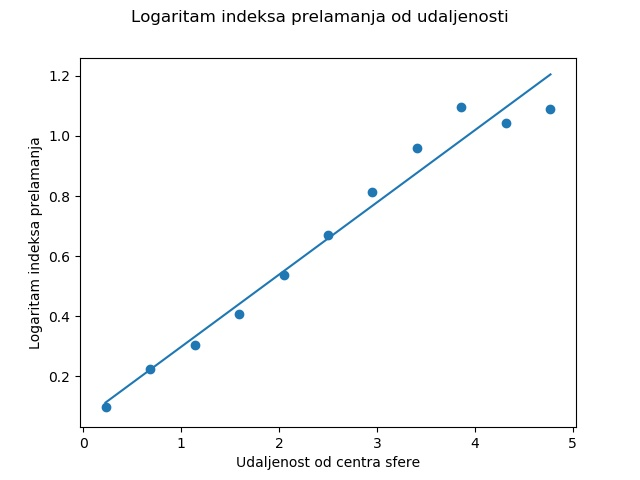
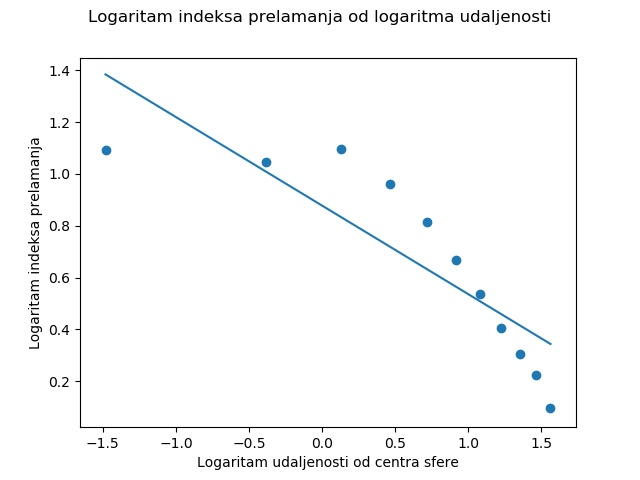
novi rezultati opet

diff --git a/'rezultati'/fminsearch_n/plot.py b/'rezultati'/fminsearch_n/plot.py
@@ -2,7 +2,7 @@ import numpy as np
 import matplotlib.pyplot as plt
 import re
 
-fit = {3:3, 4:4, 5:5, 7:7, 8:8, 9:8, 10:8, 11:9}
+fit = {3:-1, 4:-1, 5:-1, 7:5, 8:5, 9:6, 10:7, 11:7}
 
 for i in [3, 4, 5, 7, 8, 9, 10, 11]:
     f = open('podaci/n'+str(i)+'.log')
@@ -14,17 +14,24 @@ for i in [3, 4, 5, 7, 8, 9, 10, 11]:
     n_arr = re.split(', |,\n', line)
     n_arr = list(filter(None, n_arr))
     n_arr = list(map(float, n_arr))
-    x = 5*np.arange(1/(2*i), 1, 1/i)	 
+    x = np.log(5*np.arange(1 - 1/(2*i), 0, -1/i))	 
     y = np.log(n_arr)
 
-    if fit[i] != i:
+    if fit[i] == -1:
+        plt.scatter(x, y)
+        plt.suptitle('Logaritam indeksa prelamanja od logaritma udaljenosti')
+        plt.xlabel('Logaritam udaljenosti od centra sfere')
+        plt.ylabel('Logaritam indeksa prelamanja')
+        plt.savefig('slike/n'+str(i)+'.jpg')
+        plt.close()
+    elif fit[i] != i:
         t = np.linspace(x[0], x[fit[i]-1])
         A = np.vstack([x[:fit[i]], np.ones(fit[i])]).T
         [[m_t, c_t], res_t] = np.linalg.lstsq(A, y[:fit[i]], rcond=None)[:2]
         plt.plot(t, m_t*t+c_t)
         plt.scatter(x, y)
-        plt.suptitle('Logaritam indeksa prelamanja od udaljenosti')
-        plt.xlabel('Udaljenost od centra sfere')
+        plt.suptitle('Logaritam indeksa prelamanja od logaritma udaljenosti')
+        plt.xlabel('Logaritam udaljenosti od centra sfere')
         plt.ylabel('Logaritam indeksa prelamanja')
         plt.savefig('slike/n'+str(i)+'_t.jpg')
         plt.close()
@@ -32,18 +39,19 @@ for i in [3, 4, 5, 7, 8, 9, 10, 11]:
         f.write('c_t = '+str(c_t)+'\n')
         f.write('res_t = '+str(res_t[0])+'\n')
 
-    t = np.linspace(x[0], x[-1])
-    A = np.vstack([x, np.ones(len(x))]).T
-    [[m, c], res] = np.linalg.lstsq(A, y, rcond=None)[:2]
-    plt.plot(t, m*t+c)
-    plt.scatter(x, y)
-    plt.suptitle('Logaritam indeksa prelamanja od udaljenosti')
-    plt.xlabel('Udaljenost od centra sfere')
-    plt.ylabel('Logaritam indeksa prelamanja')
-    plt.savefig('slike/n'+str(i)+'.jpg')
-    plt.close() 
-    f.write('m = '+str(m)+'\n')
-    f.write('c = '+str(c)+'\n')
-    f.write('res = '+str(res[0])+'\n')
+    if fit[i] != -1:
+        t = np.linspace(x[0], x[-1])
+        A = np.vstack([x, np.ones(len(x))]).T
+        [[m, c], res] = np.linalg.lstsq(A, y, rcond=None)[:2]
+        plt.plot(t, m*t+c)
+        plt.scatter(x, y)
+        plt.suptitle('Logaritam indeksa prelamanja od logaritma udaljenosti')
+        plt.xlabel('Logaritam udaljenosti od centra sfere')
+        plt.ylabel('Logaritam indeksa prelamanja')
+        plt.savefig('slike/n'+str(i)+'.jpg')
+        plt.close() 
+        f.write('m = '+str(m)+'\n')
+        f.write('c = '+str(c)+'\n')
+        f.write('res = '+str(res[0])+'\n')
 
     f.close()

diff --git a/'rezultati'/fminsearch_n/eksponent.py b/'rezultati'/fminsearch_n/eksponent.py
@@ -1,0 +1,31 @@
+import numpy as np
+import matplotlib.pyplot as plt
+
+k_arr = [7, 8, 9, 10, 11]
+exp = {}
+
+for i in k_arr:
+	path = 'fitovi/n'+str(i)+'.log'
+	f = open(path)
+	exp[i] = float(f.readline().split()[-1])
+	f.close()
+	#print(exp[i])
+
+y = [exp[i] for i in k_arr]
+plt.scatter(k_arr, y)
+
+# t = np.linspace(k_arr[0], k_arr[-1])
+# A = np.vstack([k_arr, np.ones(len(k_arr))]).T
+# [[m, c], res] = np.linalg.lstsq(A, y, rcond=None)[:2]
+# plt.plot(t, m*t + c)
+
+plt.suptitle('Zavisnost eksponenta od broja slojeva')
+plt.xlabel('Broj slojeva')
+plt.ylabel('Fitovani eksponent indeksa prelamanja')
+plt.savefig('eksponent.jpg')
+
+# f = open('eksponent.log', 'w')
+# f.write('m = '+str(m)+'\n')
+# f.write('c = '+str(c)+'\n')
+# f.write('res = '+str(res[0])+'\n')
+# f.close()
